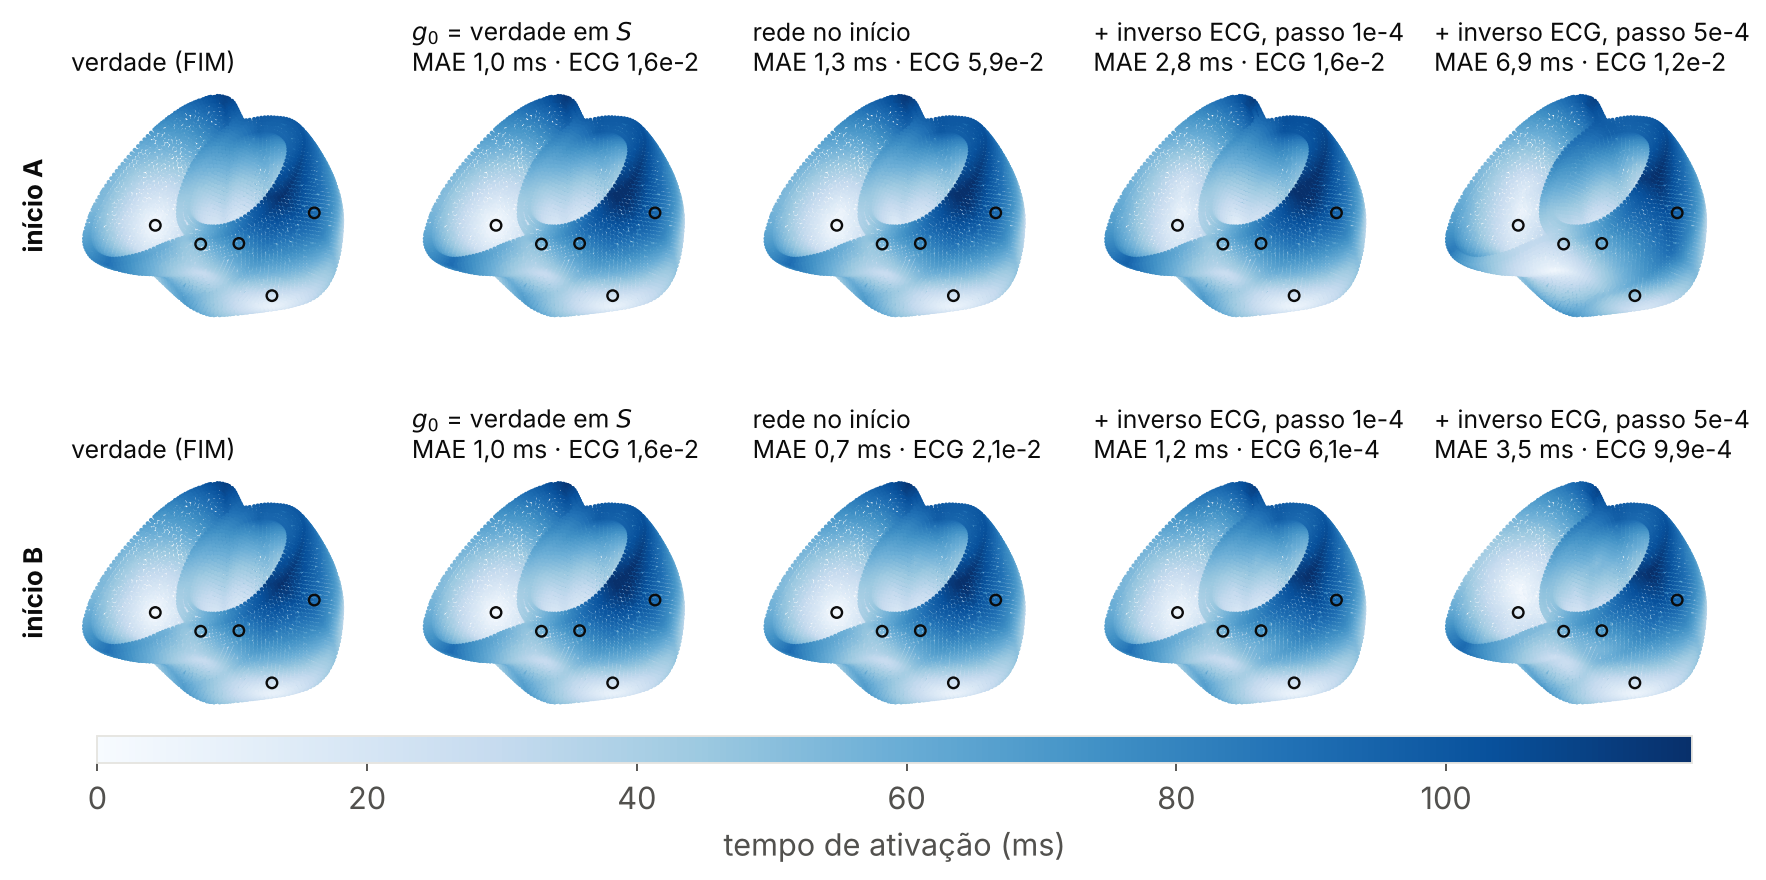
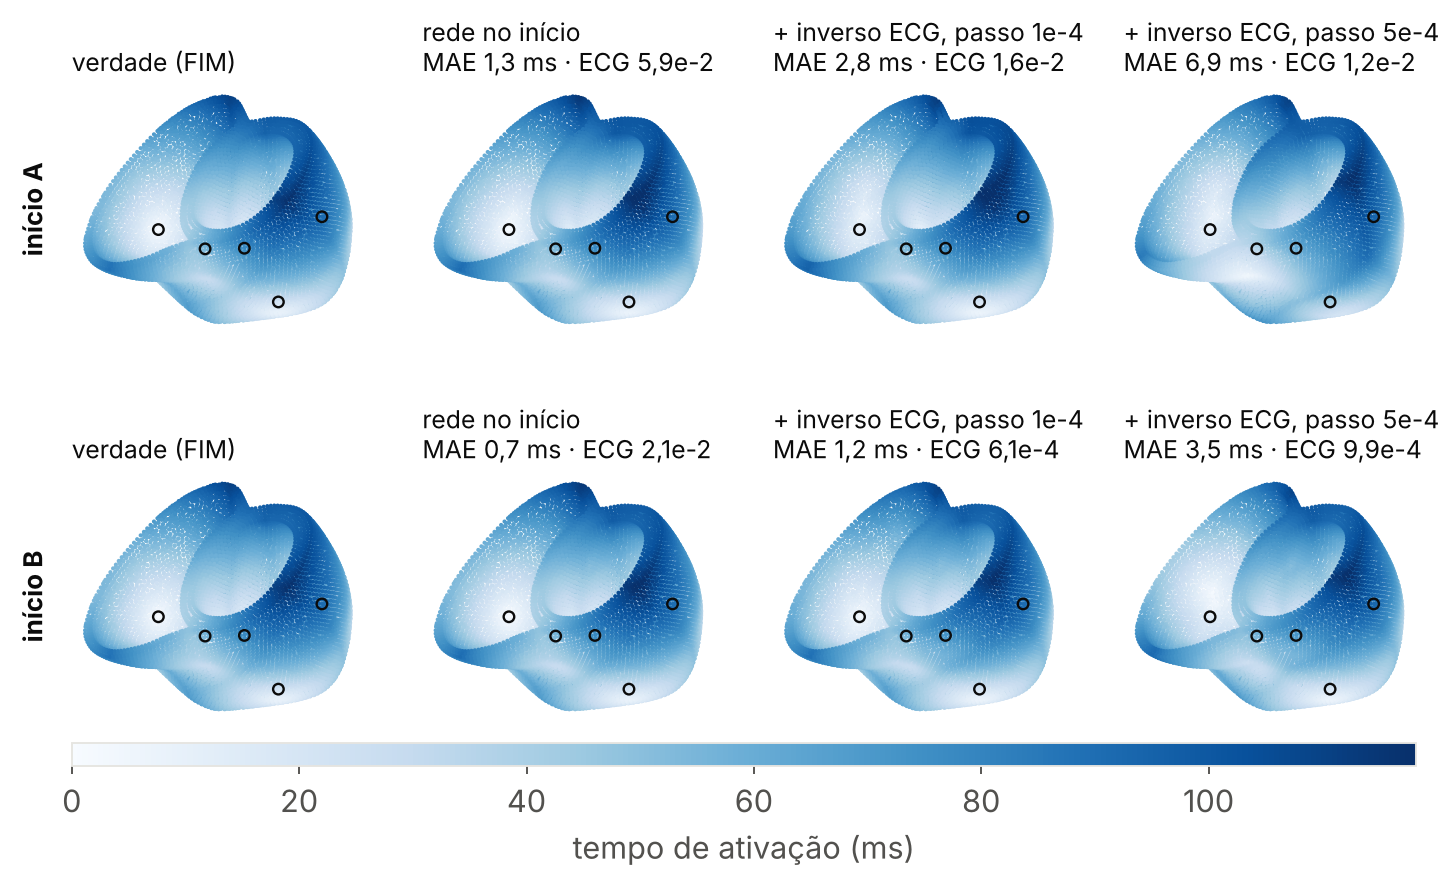
metodo1 deck: stage maps without the g0 reference column; error figure without the empty truth column
Claude-Session: https://claude.ai/code/session_0165HnNHC4nJH5gTAFXrQxAe

diff --git a/slides/2026-10_metodo1/scripts/deck_figs.py b/slides/2026-10_metodo1/scripts/deck_figs.py
@@ -75,14 +75,16 @@ def maps_figure(kind, fn):
     cols = [('verdade (FIM)', None, None)]
     for tag, names, st, rows in (('A', nA, sA, rA), ('B', nB, sB, rB)):
         pass
-    fig, axs = plt.subplots(2, 5, figsize=(12.5, 5.8))
+    ncol = 4 if kind == 'lat' else 3
+    fig, axs = plt.subplots(2, ncol, figsize=(2.55 * ncol, 5.8))
     for i, (tag, names, st, rows) in enumerate((('A', nA, sA, rA), ('B', nB, sB, rB))):
         start = names[2]
         panels = [('verdade (FIM)', tau_true, None),
-                  ('$g_0$ = verdade em $S$', st[names[0]]['tau'], rows[names[0]]),
                   ('rede no início', st[start]['tau'], rows[start]),
                   ('+ inverso ECG, passo 1e-4', st[ecg_key(1e-4)]['tau'], rows[ecg_key(1e-4)]),
                   ('+ inverso ECG, passo 5e-4', st[ecg_key(5e-4)]['tau'], rows[ecg_key(5e-4)])]
+        if kind != 'lat':
+            panels = panels[1:]  # the truth has no error
         for j, (ttl, tau, r) in enumerate(panels):
             ax = axs[i, j]
             if kind == 'lat':
